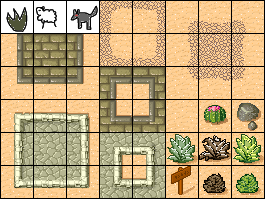
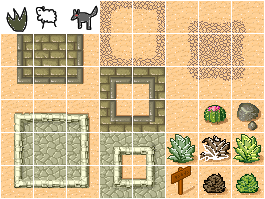
Improve grid rendering

Changed region(s): [[0.0, 0.0, 1.0, 1.0]]

diff --git a/src/index.ts b/src/index.ts
@@ -1,6 +1,7 @@
 import {Game, Scene, GameObjects, Types} from 'phaser';
 import {Grid} from './Grid';
 import {Rock, Grass, Sheep, Wolf} from './GridObjects';
+import borderImage from './assets/borders.png';
 
 export class MainScene extends Scene {
   ui!: GameObjects.Container;
@@ -8,17 +9,20 @@ export class MainScene extends Scene {
 
   keys!: Types.Input.Keyboard.CursorKeys;
 
-  grid = new Grid(this);
+  grid = new Grid(this, 100, 100);
 
   constructor() {
     super({key: 'main'});
   }
 
   preload() {
+    this.load.image('borders', borderImage);
     this.grid.preload();
   }
 
   create() {
+    const borders = this.add.tileSprite(2000, 2000, 7500, 7500, 'borders');
+
     this.grid.create();
     this.grid.add(new Rock(4, 4));
     this.grid.add(new Grass(0, 0));
@@ -26,6 +30,16 @@ export class MainScene extends Scene {
     this.grid.add(new Wolf(2, 2));
     this.grid.add(new Wolf(1, 7));
     this.grid.add(new Grass(5, 1));
+    this.grid.add(new Rock(20, 0));
+    this.grid.add(new Rock(20, 1));
+    this.grid.add(new Rock(20, 2));
+    this.grid.add(new Rock(20, 3));
+    this.grid.add(new Rock(20, 4));
+    this.grid.add(new Rock(20, 5));
+    this.grid.add(new Rock(20, 6));
+    this.grid.add(new Rock(20, 7));
+    this.grid.add(new Rock(20, 8));
+    this.grid.add(new Rock(20, 9));
 
     this.keys = this.input.keyboard.createCursorKeys();
 
@@ -34,6 +48,7 @@ export class MainScene extends Scene {
 
     const uiCamera = this.cameras.add(0, 0, 800, 600);
     uiCamera.ignore(this.grid.container);
+    uiCamera.ignore(borders);
     this.cameras.main.ignore(this.ui);
   }
 
@@ -45,16 +60,16 @@ export class MainScene extends Scene {
     }
 
     if(this.input.keyboard.checkDown(this.keys.up)) {
-      this.cameras.main.y += 5;
+      this.cameras.main.scrollY += 5;
     }
     if(this.input.keyboard.checkDown(this.keys.down)) {
-      this.cameras.main.y -= 5;
+      this.cameras.main.scrollY -= 5;
     }
     if(this.input.keyboard.checkDown(this.keys.left)) {
-      this.cameras.main.x += 5;
+      this.cameras.main.scrollX += 5;
     }
     if(this.input.keyboard.checkDown(this.keys.right)) {
-      this.cameras.main.x -= 5;
+      this.cameras.main.scrollX -= 5;
     }
     if(this.input.keyboard.checkDown(this.keys.space)) {
       this.cameras.main.zoom += 0.01;

diff --git a/src/Grid.ts b/src/Grid.ts
@@ -5,7 +5,6 @@ import backgroundImage from './assets/background.png';
 import foregroundImage from './assets/foreground.png';
 
 export class Grid {
-  scene: Scene;
   map!: Tilemaps.Tilemap;
   container!: GameObjects.Container;
   background!: Tilemaps.TilemapLayer;
@@ -13,8 +12,7 @@ export class Grid {
   objects: GridObject[] = [];
   directions: PhaserMath.Vector2[] = [];
 
-  constructor(scene: Scene) {
-    this.scene = scene;
+  constructor(private scene: Scene, public width: number, public height: number) {
     this.directions.push(new PhaserMath.Vector2(1, 0));
     this.directions.push(new PhaserMath.Vector2(-1, 0));
     this.directions.push(new PhaserMath.Vector2(0, 1));
@@ -28,7 +26,7 @@ export class Grid {
 
   create() {
     this.container = this.scene.add.container();
-    this.map = this.scene.make.tilemap({ width: 10, height: 10, tileWidth: 32, tileHeight: 32 });
+    this.map = this.scene.make.tilemap({ width: this.width, height: this.height, tileWidth: 32, tileHeight: 32 });
     const background = this.map.addTilesetImage('background', undefined, 32, 32, 1, 1);
     this.background = this.map.createBlankLayer('background', background);
     const foreground = this.map.addTilesetImage('foreground', undefined, 32, 32, 1, 1);
